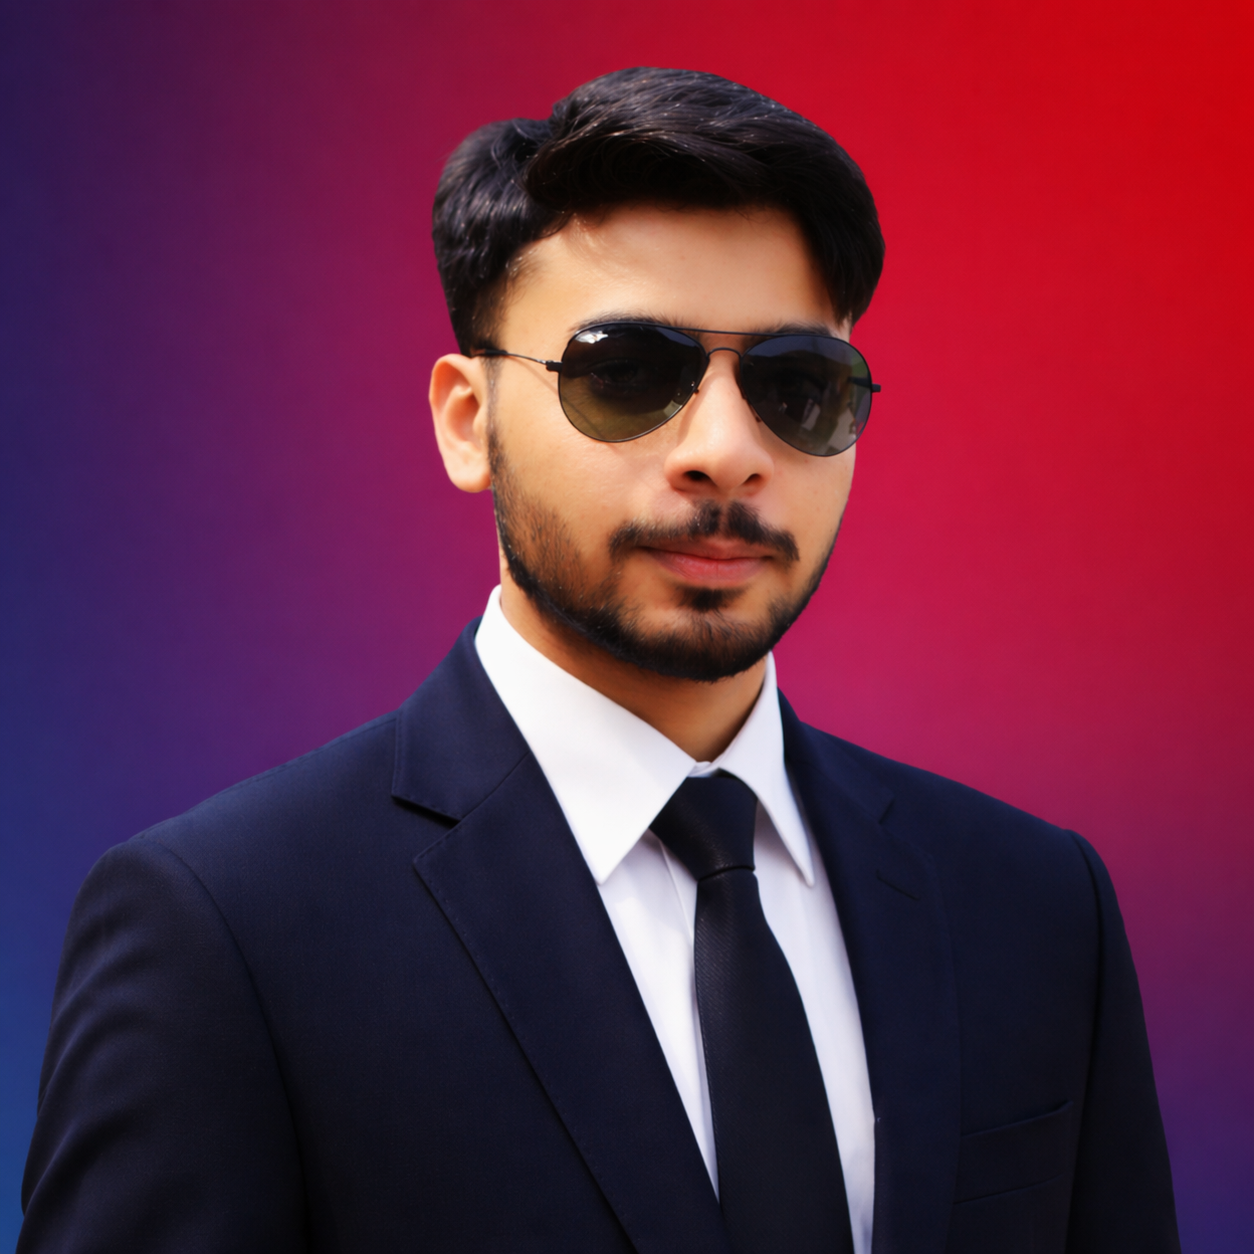
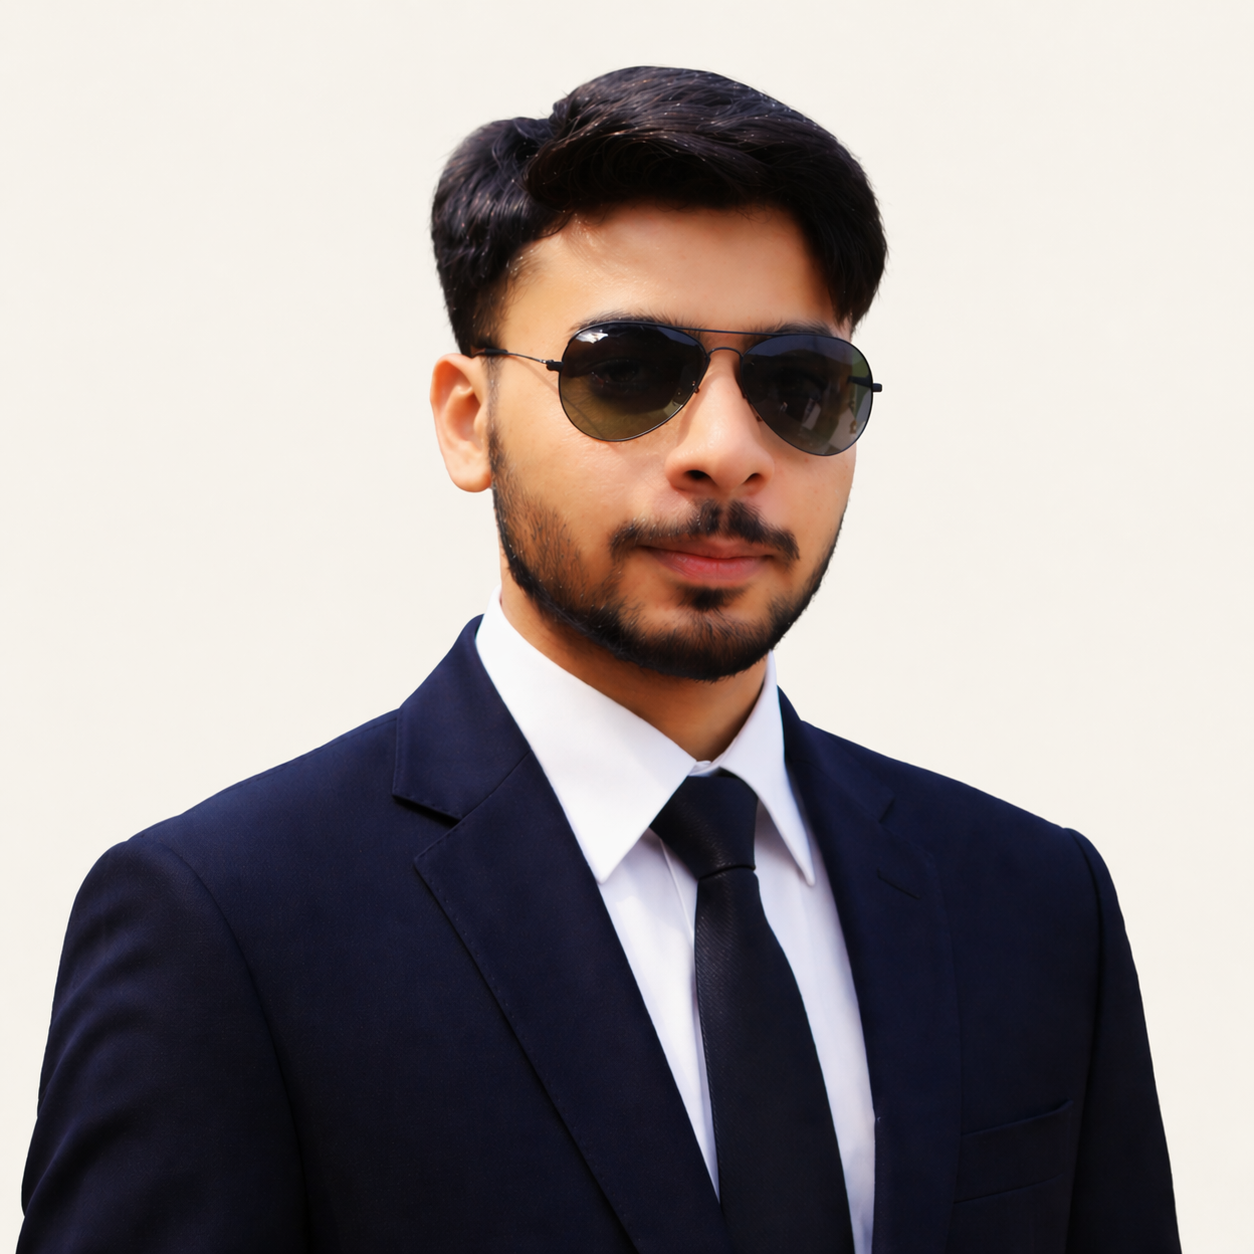
changes

diff --git a/index.html b/index.html
@@ -6,7 +6,7 @@
   <meta content="width=device-width, initial-scale=1.0" name="viewport">
 
   <title>Saad Iftikhar</title>
-  <meta content="Android Developer" name="description">
+  <meta content="Mobile Developer" name="description">
   <meta name="keywords" content="">
 
 
@@ -72,7 +72,7 @@
     <div class="hero-container" data-aos="fade-in">
       <h4 style="color:#fff">Hi, I am</h4>
       <h1>Saad Iftikhar</h1>
-      <p>an <span class="typed" data-typed-items="Android Developer, Open Source Contributor"></span></p>
+      <p> <span class="typed" data-typed-items="a Mobile Developer, an Open Source Contributor"></span></p>
     </div>
   </section><!-- End Hero -->
 
@@ -185,14 +185,14 @@
             </div>
           </div>
 
-          <!-- <div class="col-lg-2 col-md-5 portfolio-item filter-app">
+          <div class="col-lg-2 col-md-5 portfolio-item filter-app">
             <div class="portfolio-wrap portfolio-item-rounded">
-              <img src="assets/img/portfolio/adro_intami.png" class="img-fluid" alt="">
+              <img src="assets/img/portfolio/union_coop.png" class="img-fluid" alt="">
               <div class="portfolio-links">
-                <a onclick="openPlaystore('adro_intami')" title="Takeme"><i class="bx bxl-play-store"></i></a>
+                <a onclick="openPlaystore('union_coop')" title="Union Coop"><i class="bx bxl-play-store"></i></a>
               </div>
             </div>
-          </div> -->
+          </div>
           
           <div class="col-lg-2 col-md-5 portfolio-item filter-app">
             <div class="portfolio-wrap portfolio-item-rounded">
@@ -214,18 +214,18 @@
 
 <div class="col-lg-2 col-md-5 portfolio-item filter-app">
             <div class="portfolio-wrap portfolio-item-rounded">
-              <img src="assets/img/portfolio/lgu_circle.png" class="img-fluid" alt="">
+              <img src="assets/img/portfolio/journey_joy.png" class="img-fluid" alt="">
               <div class="portfolio-links">
-                <a onclick="openPlaystore('lgu_circle')" title="LGU Circle"><i class="bx bxl-play-store"></i></a>
+                <a onclick="openPlaystore('journey_joy')" title="Journey Joy"><i class="bx bxl-play-store"></i></a>
               </div>
             </div>
           </div>
 
           <div class="col-lg-2 col-md-5 portfolio-item filter-app">
             <div class="portfolio-wrap portfolio-item-rounded">
-              <img src="assets/img/portfolio/spin_rewards.png" class="img-fluid" alt="">
+              <img src="assets/img/portfolio/my_tawasol.png" class="img-fluid" alt="">
               <div class="portfolio-links">
-                <a onclick="openPlaystore('spin_rewards')" title="Spin Rewards"><i class="bx bxl-play-store"></i></a>
+                <a onclick="openPlaystore('my_tawasol')" title="myTawasol"><i class="bx bxl-play-store"></i></a>
               </div>
             </div>
           </div>

diff --git a/assets/js/portfolio-details.js b/assets/js/portfolio-details.js
@@ -262,17 +262,25 @@ case "easy_scan": {
 
 }
 
-case "lgu_circle": {
+case "journey_joy": {
 
-    return "https://play.google.com/store/apps/details?id=com.lgucircle.android";
+    return "https://play.google.com/store/apps/developer?id=HISHAM+MOHAMMED+AL-MALIKI+TECHNICAL+COMPANY";
 
     break;
 
 }
 
-case "spin_rewards": {
+case "my_tawasol": {
 
-    return "https://play.google.com/store/apps/details?id=com.cmrewards.freespinslink&hl=en";
+    return "https://play.google.com/store/apps/details?id=com.hr.unioncoop";
+
+    break;
+
+}
+
+case "union_coop": {
+
+    return "https://play.google.com/store/apps/details?id=com.unioncoop.ucs";
 
     break;
 
